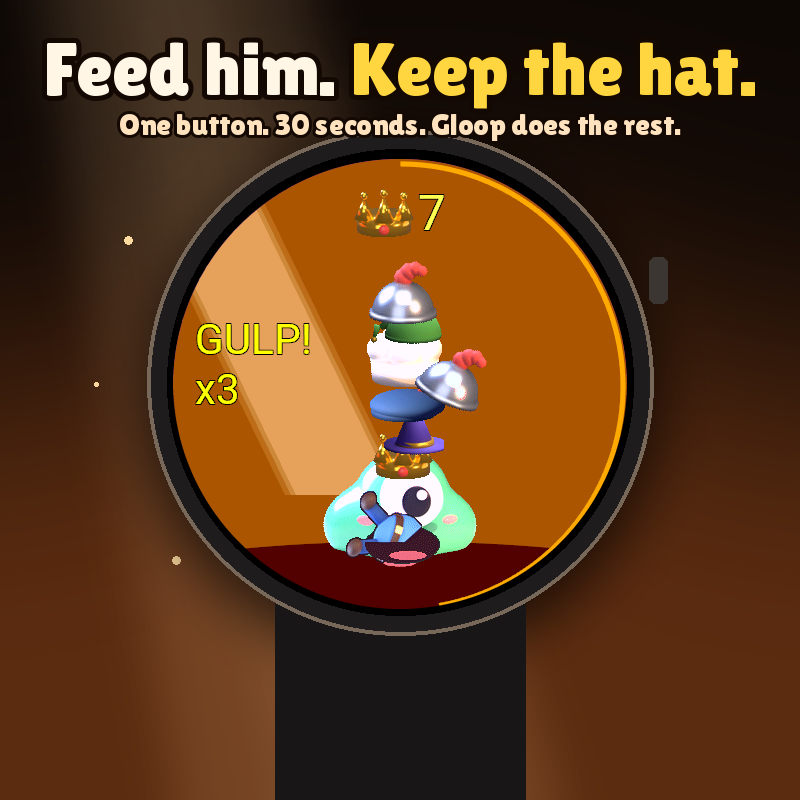
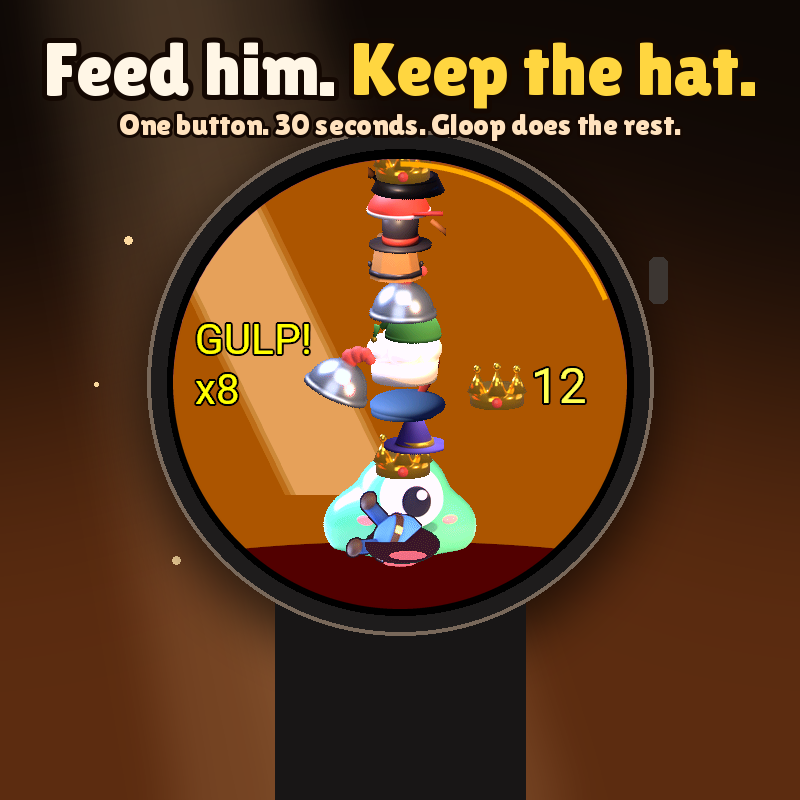
Mila: winkelbeeld 1 Gloop-spel met slok bij 12 hoeden
Claude-Session: https://claude.ai/code/session_01RMWUyfrfBsHawdMq3dNKaP

diff --git a/ontwerp/garmin/bron/gloop_winkel_v1.py b/ontwerp/garmin/bron/gloop_winkel_v1.py
@@ -98,7 +98,7 @@ def beeld(naam, scherm, regels, ondertekst, R=227, cy=None, boven=(), kop_y=26):
 
 
 if __name__ == '__main__':
-    beeld('concept-1-feed-him.png', 'venu3-14.png',
+    beeld('concept-1-feed-him.png', 'venu3-22.png',
           [[('Feed him. ', None), ('Keep the hat.', GEEL)]],
           'One button. 30 seconds. Gloop does the rest.')
     beeld('concept-2-taller.png', 'venu3-21.png',

diff --git a/ontwerp/garmin/gloop-spel/winkel/LEESMIJ.md b/ontwerp/garmin/gloop-spel/winkel/LEESMIJ.md
@@ -14,3 +14,6 @@ GEZIEN met Read: alle drie op 800 en de strook op 200 px. Zwak (eerlijk): op 200
 ## Voorstel aan Gijs: donkere grot op AMOLED
 `voorstel-donkere-grot-amoled.png`: links het spel nu (effen oranje), midden en rechts dezelfde opname met alleen de achtergrondkleuren vervangen (script `bron/gloop_spel_donker_voorstel.py`): warm in het midden achter Gloop, bijna zwart aan de rand, lichtbaan erover. Waarom: het icoon is zo (zes blinde kijkers: donker wint tussen de toppers), Gloops mint en de gele teksten springen eruit, de rand loopt over in de zwarte kast van het horloge zodat het scherm groter lijkt, en zwarte pixels kosten op AMOLED minder stroom. MIP blijft effen zoals nu (64 kleuren).
 Script: `bron/gloop_winkel_v1.py`.
+
+## 16 nov ±08:00 UTC: beeld 1 met de slok bij 12 hoeden
+- `concept-1-feed-him.png` nu uit `bron/venu3-22.png` (run 43822689413, Venu 3, 1x): "GULP! x8", 12 hoeden, toren loopt boven over de rand. GEZIEN met Read op 800 en 200 px: op 200 leest de toren nu als toren, niet meer als klein figuurtje. Zwak: het dunne systeemfont van de Venu ("GULP! x8", "12"); verbetert zodra Gijs het nep-vet bouwt. Opnieuw opnemen zodra de donkere grot erin zit (dan ook beelden 2 en 5).
